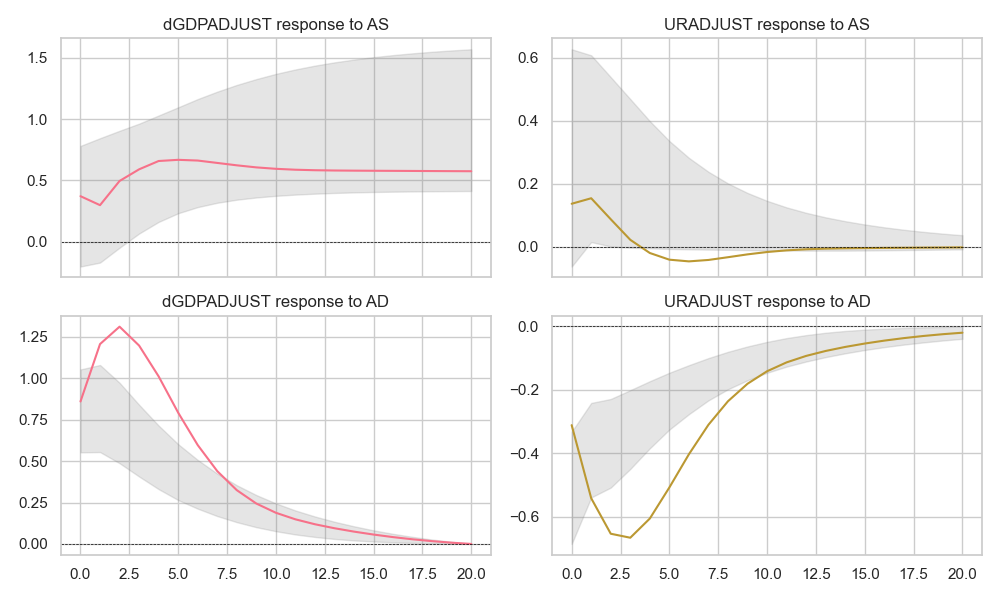
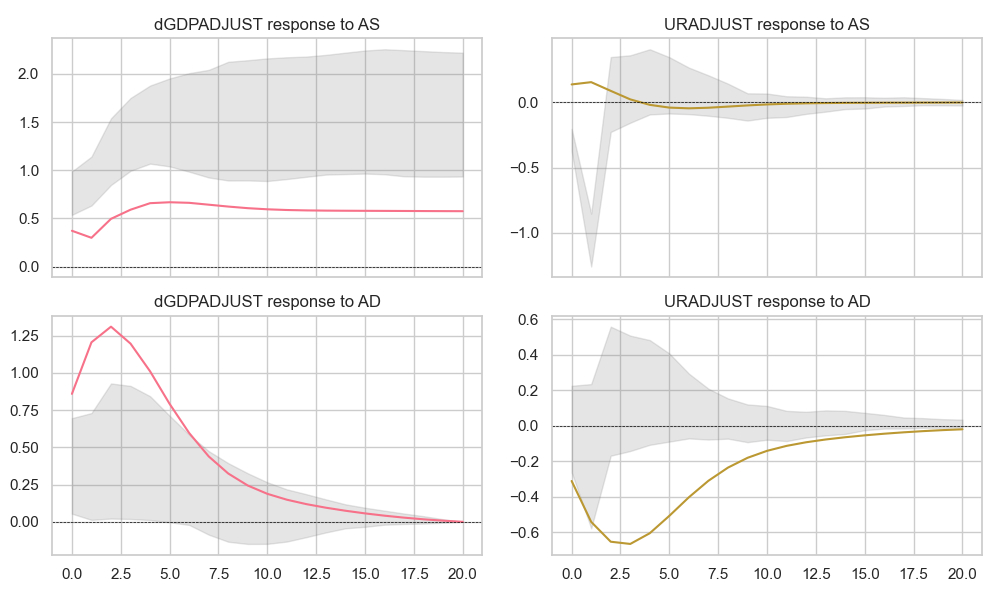
buggy implementation of burn

diff --git a/SVAR.py b/SVAR.py
@@ -71,7 +71,20 @@ class VAR_output:
         self.ir_upper = ir_upper
         self.ir_lower = ir_lower
         self.fevd = fevd
-        
+
+def VAR_predict(var_df, coefs, const):
+    size = var_df.shape[1]
+    order = var_df.shape[0]
+    try:
+        coefs = np.reshape(coefs, (order, size, size))
+    except:
+        raise ValueError("Invalid input.")
+
+    output = const.copy()
+    for l in range(order):
+        output += np.dot(coefs[l], var_df.iloc[order-1-l])
+    return output
+
 def SVAR(input):
     output = VAR_output()
 
@@ -107,11 +120,8 @@ def SVAR(input):
     output.shock = df.iloc[output.lag_order:, :] - prediction # This step calculates mu. Will be tranformed into epsilon
 
     # Estimate impulse response, without any transformation of the shocks (FACTOR = %identity(m))
-    
     irf = results.irf(input.nsteps)
     # print(irf.irfs)
-
-
 
     # Calculate decomposition matrix M
     F1 = np.zeros((input.size, input.size))
@@ -136,11 +146,11 @@ def SVAR(input):
     for i in range(input.nsteps+1):
         output.ir[i] = np.dot(output.ir[i], M)
     
-    
     if input.bootstrap:
         print("Bootstrapping in progress...")
         normal_interval = False
-        draw_from_normal = True
+        draw_from_normal = False
+        burn = 10
         
         # Initialize output storage
         if normal_interval:
@@ -157,16 +167,33 @@ def SVAR(input):
             boot_input.plot = False
             boot_input.td_col = ""
 
+            shuffled_shock = np.zeros((output.shock.shape[0]+burn, input.size))
             if draw_from_normal:
-                shuffled_shock = np.random.multivariate_normal(np.array([0,0]), results.sigma_u, output.shock.shape[0])
+                shuffled_shock = np.random.multivariate_normal(np.array([0,0]), results.sigma_u, shuffled_shock.shape[0])
             else:
                 # Draw randomly with replacement
-                shuffled_shock = np.empty_like(output.shock)
                 for j in range(shuffled_shock.shape[0]):
-                    shuffled_shock[j, :] = output.shock.iloc[np.random.randint(0, output.shock.shape[0]), :]
+                    shuffled_shock[j] = output.shock.iloc[np.random.randint(0, output.shock.shape[0]-1)]
             
+            # Generate bootstrap data
+            drop_const = True
+
+            initial_cond = np.zeros((output.lag_order, input.size))
+            boot_input.df = pd.DataFrame(columns = variable_names, data = np.concatenate((initial_cond, shuffled_shock), axis=0))
+
+            coefs = np.array(results.params.iloc[1:])
+            const = np.zeros(input.size)
+
+            if not drop_const:
+                const = np.array(results.params.iloc[0])
+
+            for p in range(output.lag_order, boot_input.df.shape[0]):
+                boot_input.df.iloc[p] += VAR_predict(boot_input.df.iloc[p-output.lag_order : p], coefs, const)
+
+            boot_input.df = boot_input.df.iloc[burn:]
+
             # Find impulse response subject to structrual restrictions
-            boot_input.df = pd.DataFrame(columns = variable_names, data = prediction+shuffled_shock)
+            
             boot_output = SVAR(boot_input)
             if boot_output.lag_order == 0:
                 # Unsuccessful VAR. No lags selected. Treat all VMA coefs as zero.
@@ -176,7 +203,7 @@ def SVAR(input):
                 mean_accum += boot_output.ir
                 sq_diff_accum += boot_output.ir ** 2
             else:
-                IRs[i, :, :, :] = boot_output.ir
+                IRs[i] = boot_output.ir
             
         if normal_interval:
             boot_mean = mean_accum / input.ndraws

diff --git a/main.py b/main.py
@@ -131,8 +131,8 @@ def run_var():
     lagmethod = 'aic'
 
     bootstrap = True
-    ndraws = 2000
-    signif = 0.32 # significance level of bootstrap
+    ndraws = 200
+    signif = 0.05 # significance level of bootstrap
     
     """
     # INPUT SECTION
